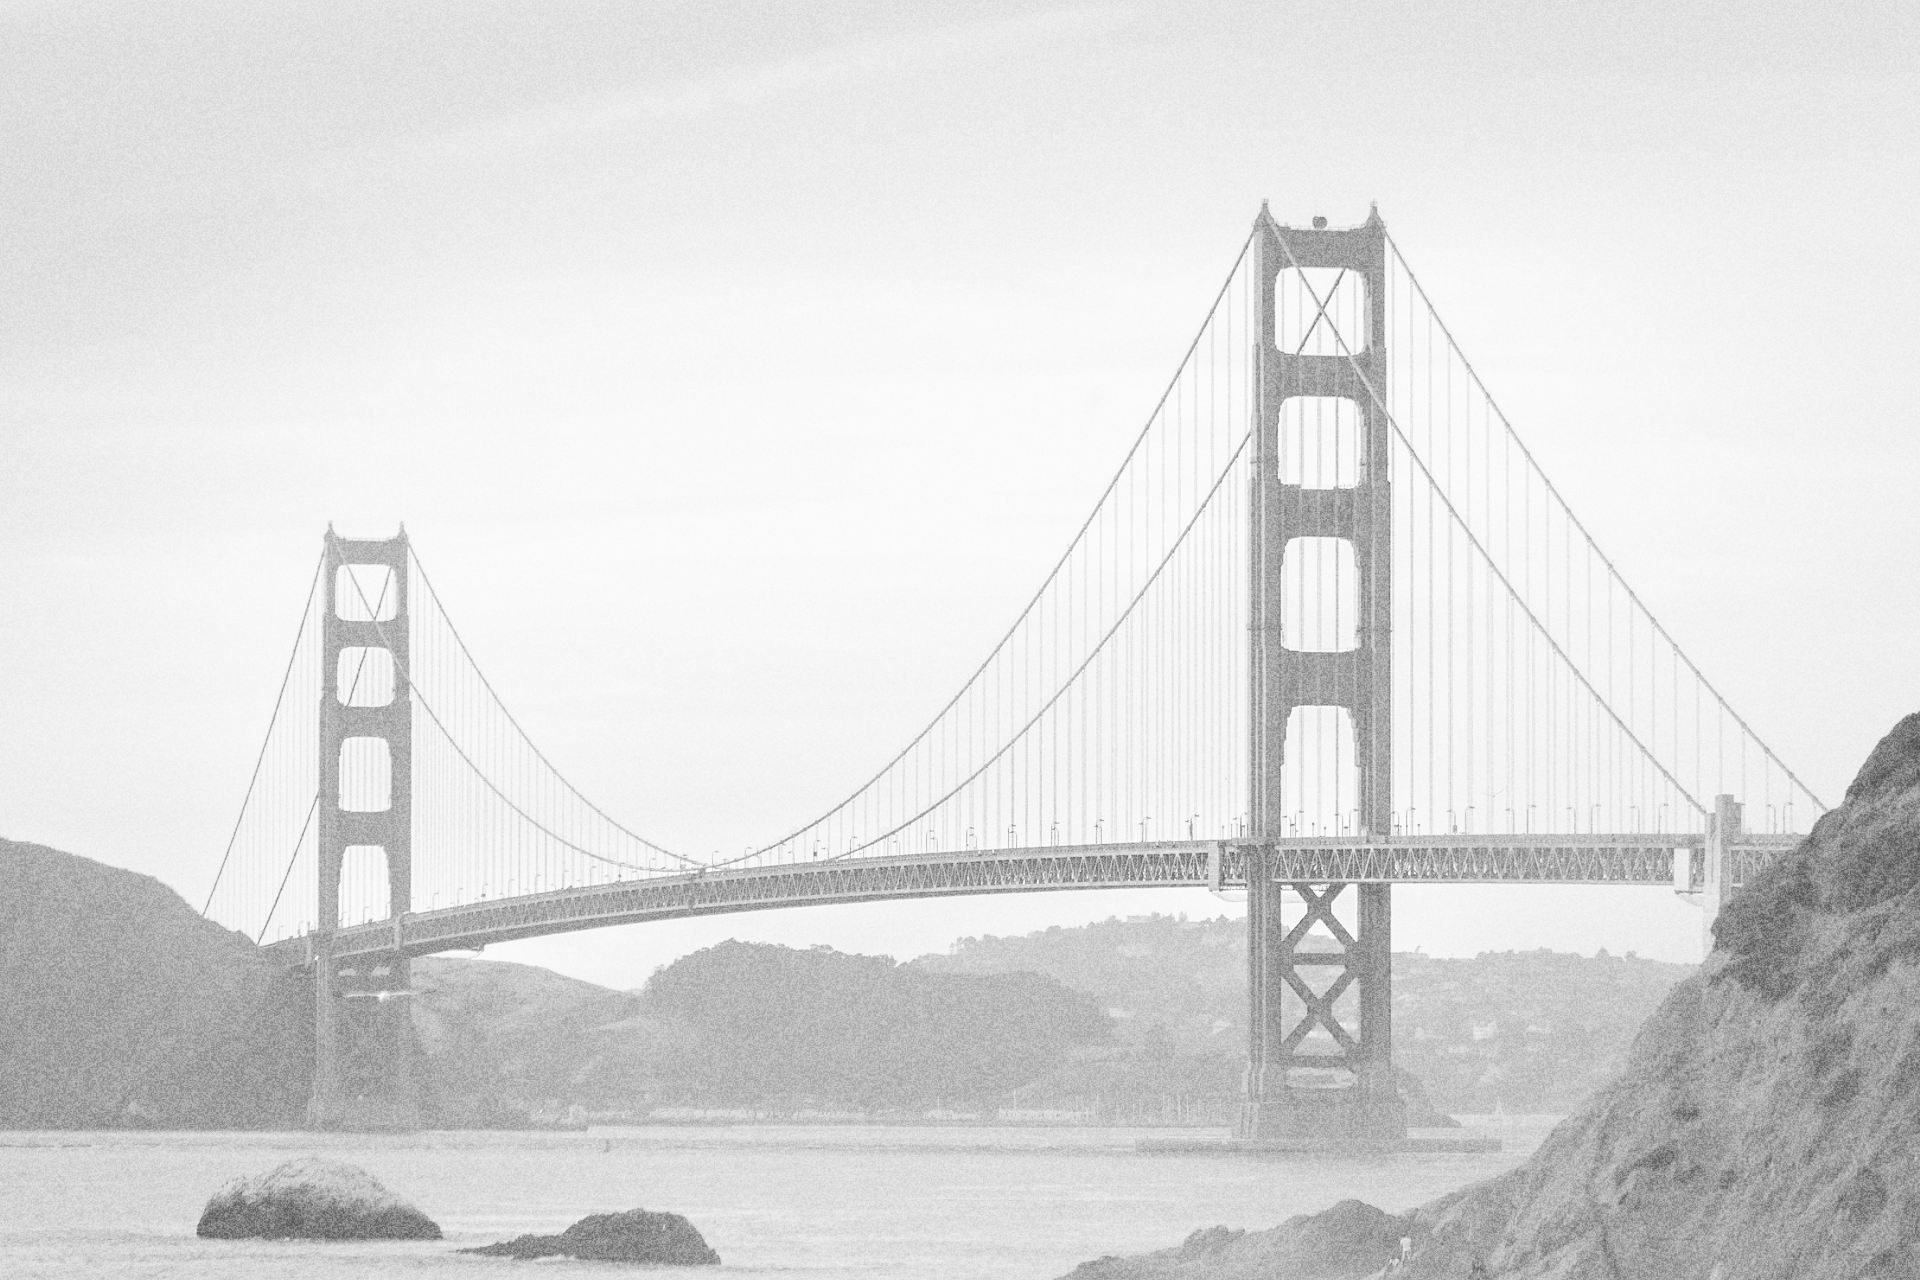
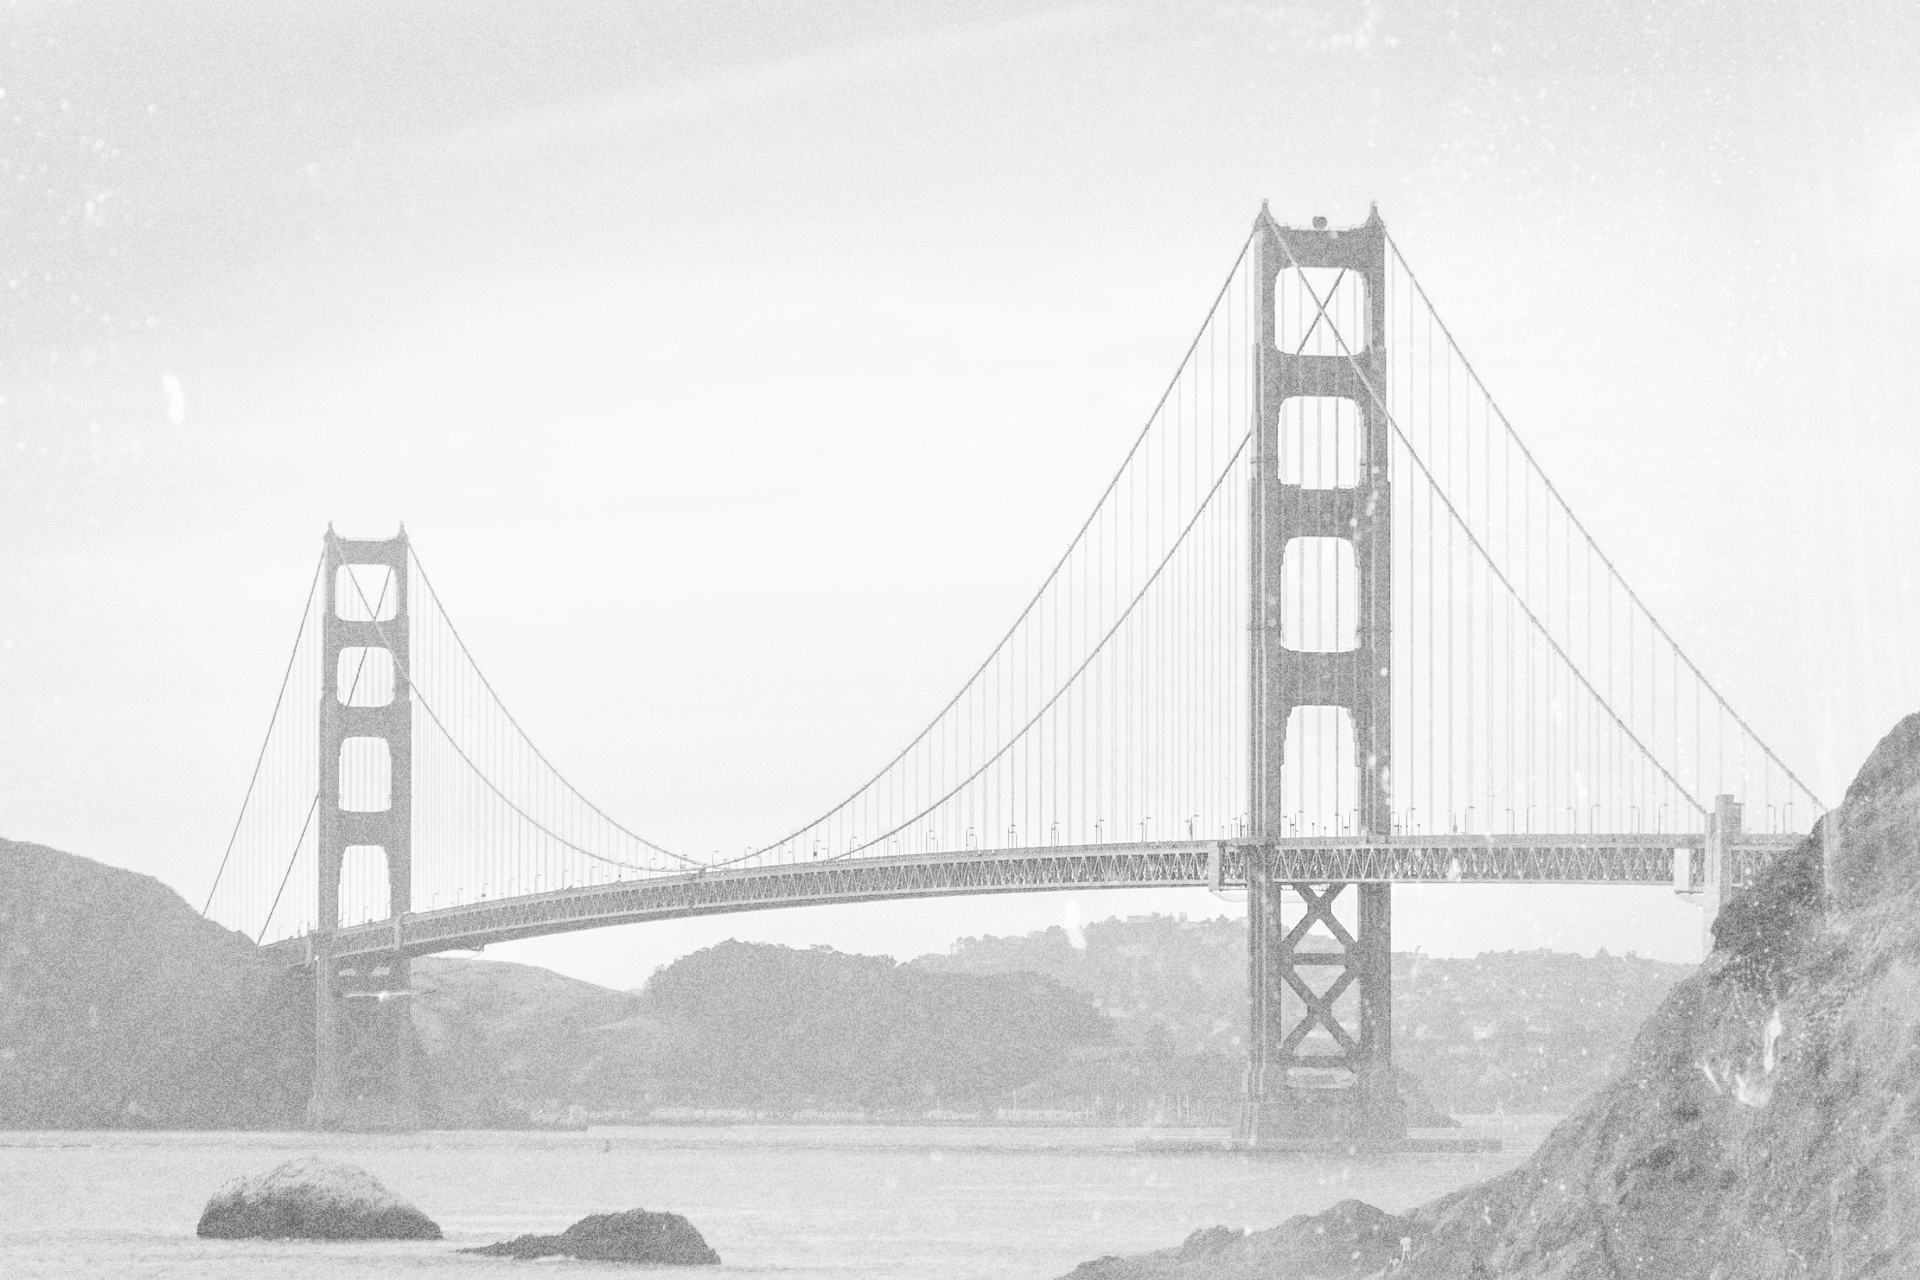
reroute to San Francisco detail page after deleting a post

Changed region(s): [[0.875, 0.5625, 1.0, 1.0], [0.75, 0.6562, 0.7812, 0.6875]]

diff --git a/main_app/views.py b/main_app/views.py
@@ -156,4 +156,4 @@ def posts_edit(request, post_id):
 # update redirect to city index/detail page once city model and detail page is created
 def posts_delete(request, post_id):
   User_Post.objects.get(id=post_id).delete()
-  return redirect('city_index')
+  return redirect('city_detail', city_id=1)

diff --git a/README.md b/README.md
@@ -57,9 +57,9 @@ My List
 [x] - style add post button
 [x] - style post in cities
 [x] - remove footer from post detail page
-[ ] - fix font-size for forms
-[ ] - play around with burn effect on photos
-[ ] - reroute to city detail page after deleting a post
+[x] - fix font-size for forms
+[x] - play around with burn effect on photos
+[x] - reroute to San Francisco detail page after deleting a post
 [ ] - change photo for unique cities
 [ ] - bring in Xenia's work
 [ ] - sort list of posts by newest first
